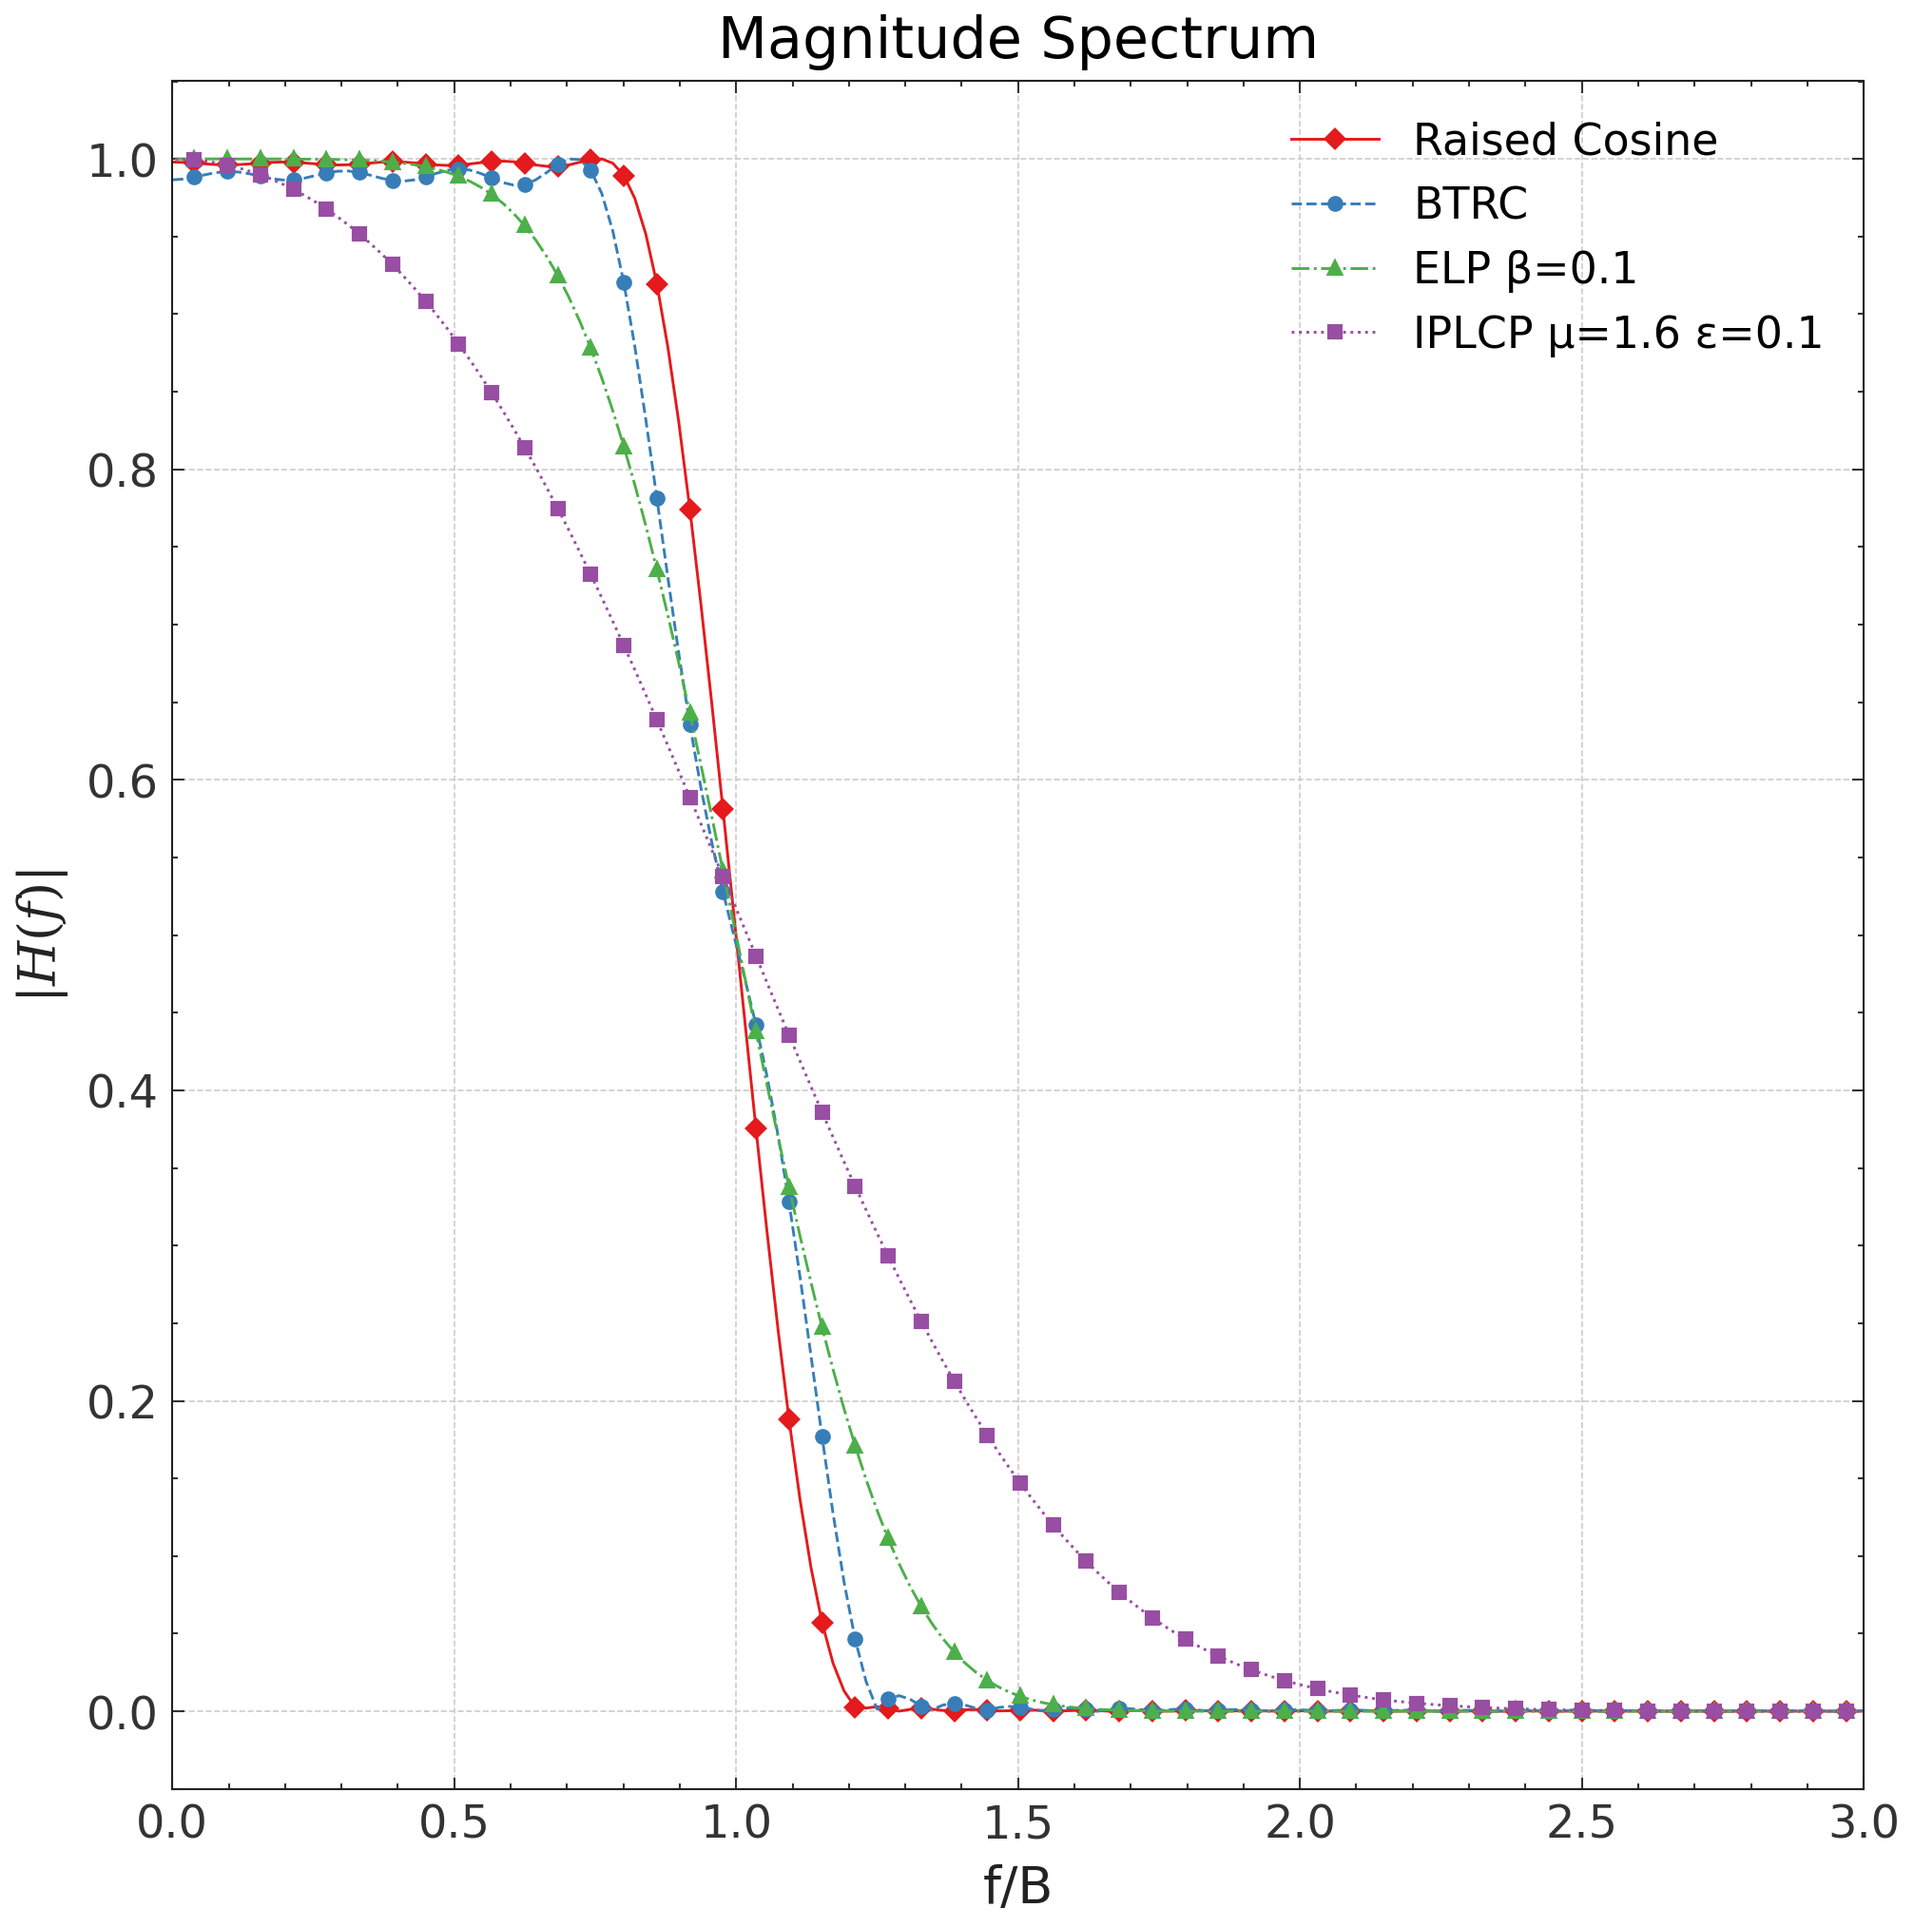
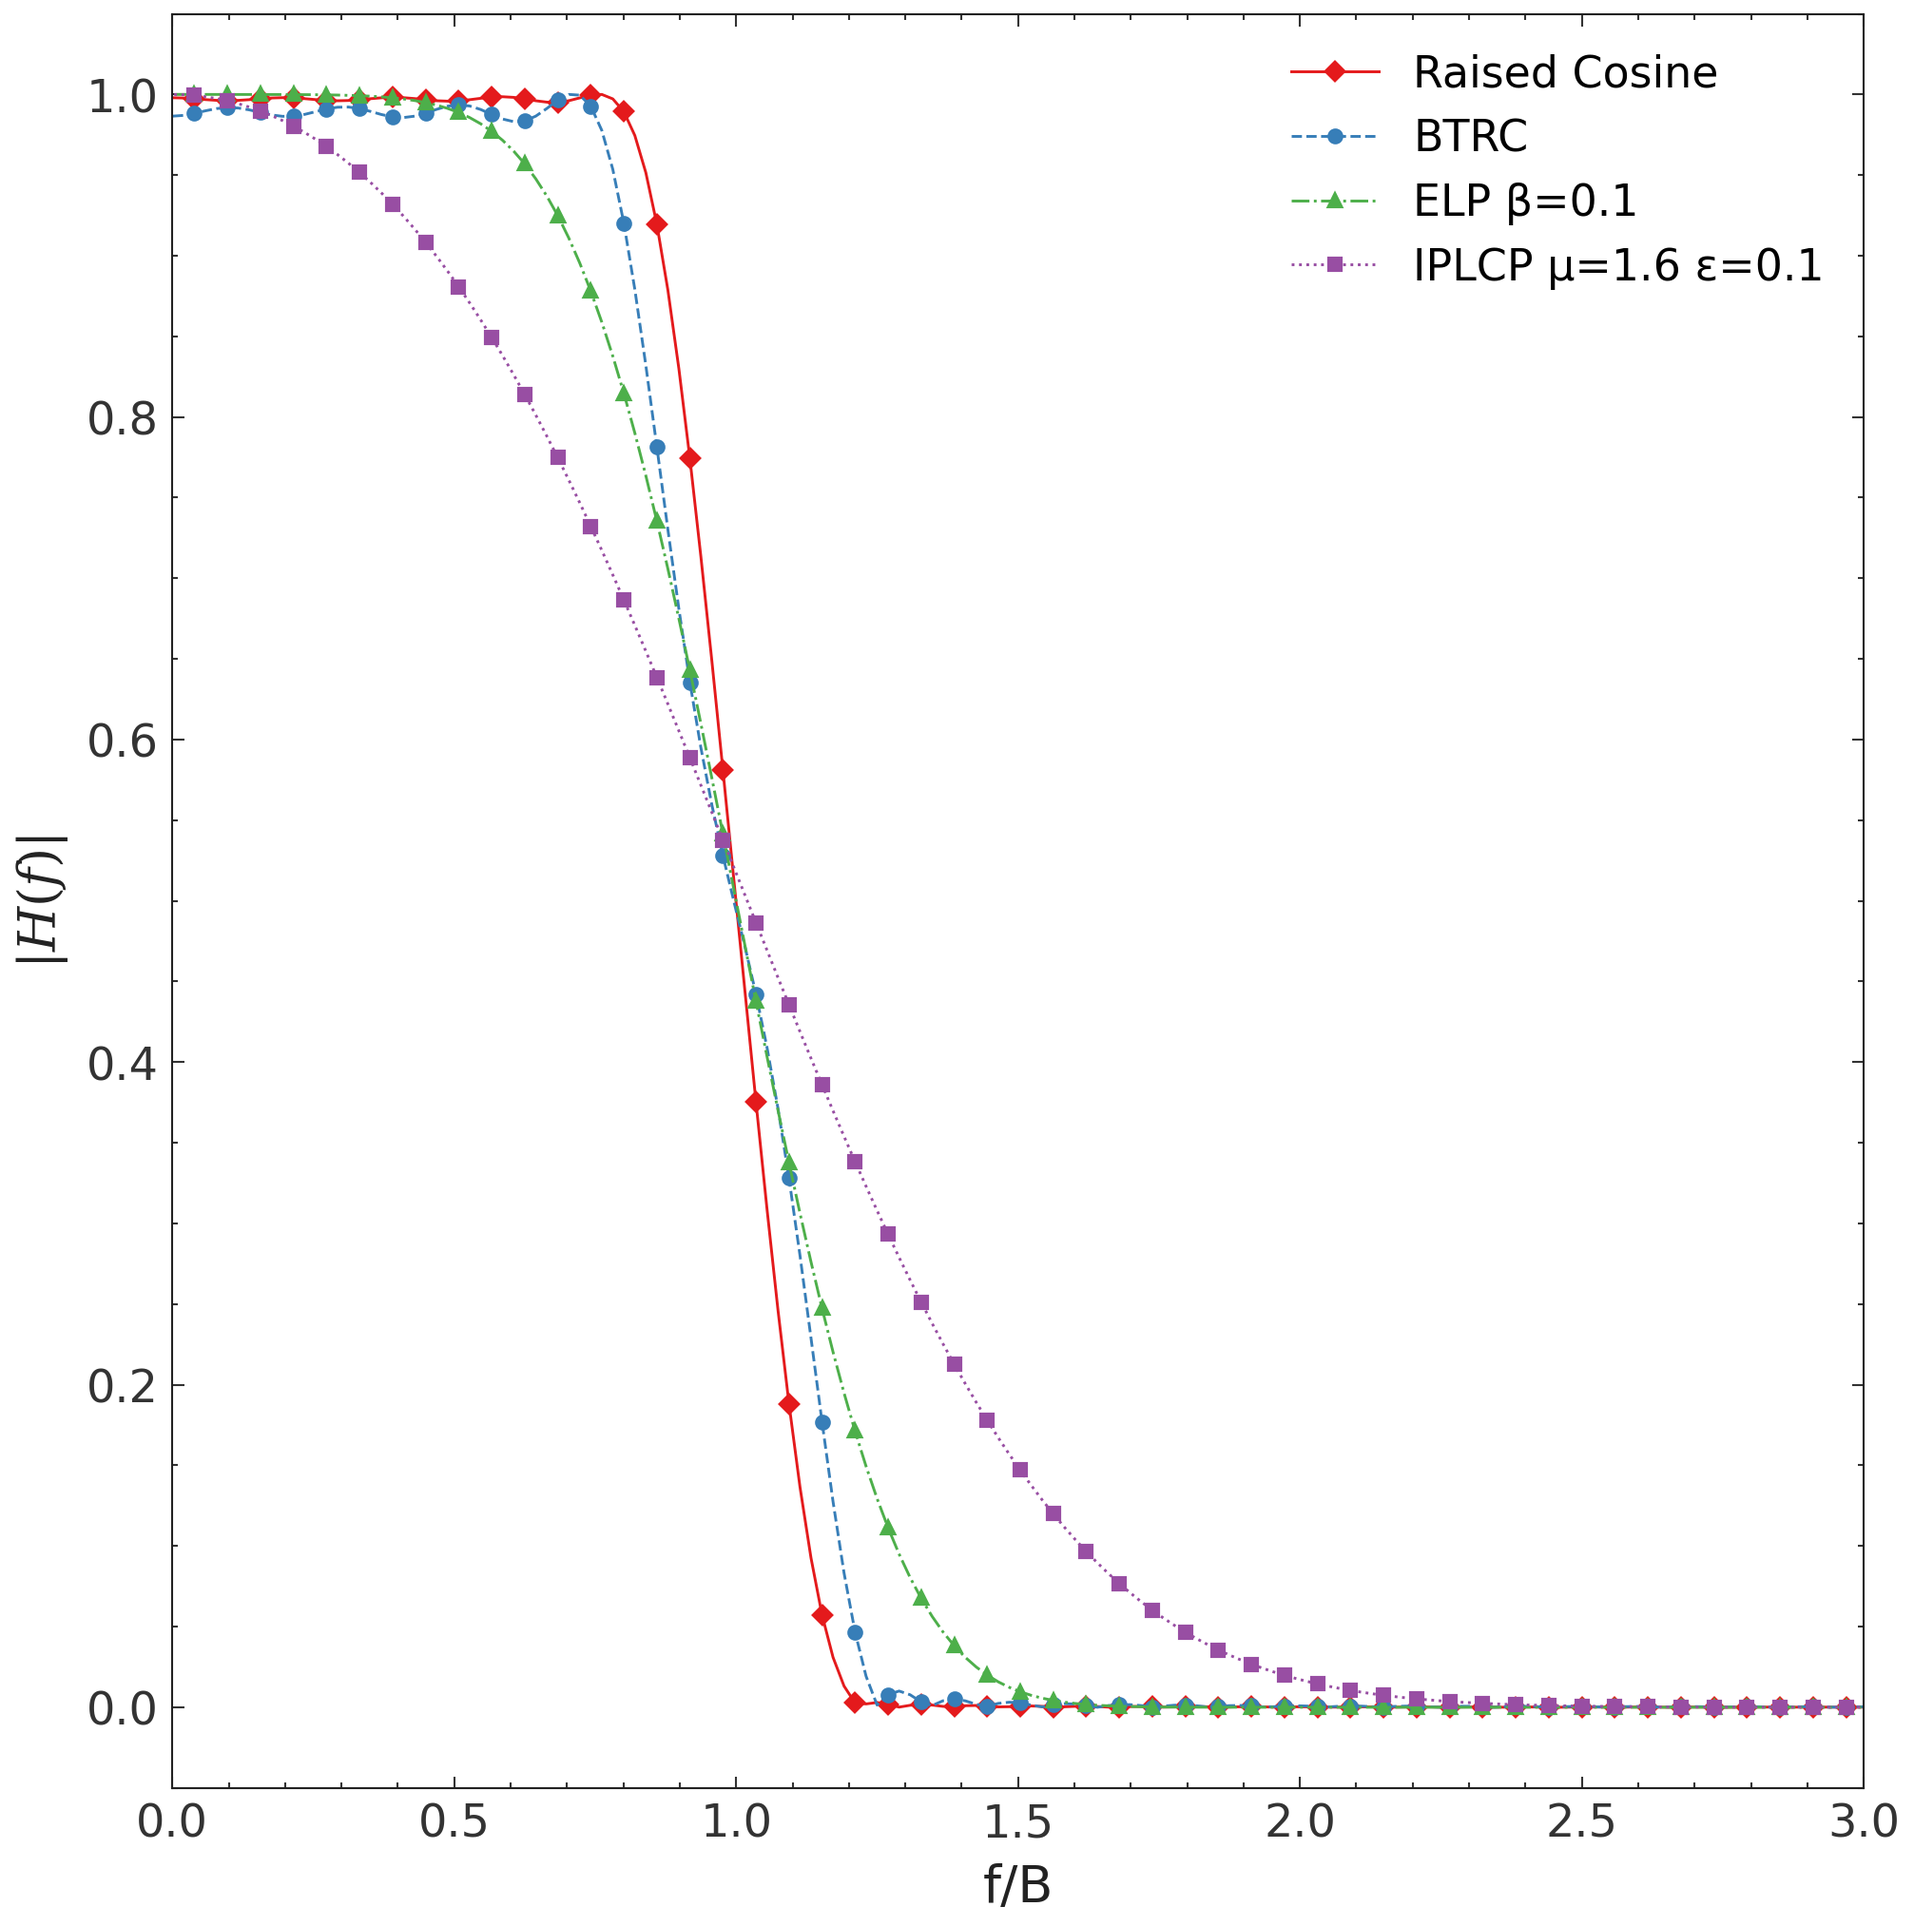
plot tweaks

diff --git a/src/main.py b/src/main.py
@@ -63,9 +63,7 @@ def main():
     os.makedirs(out_dir, exist_ok=True)
     logger.info("Output directory: %s", out_dir)
 
-    # Estilo global
-    logger.info("Aplicando estilo 'prism_rain'")
-    set_plot_style("prism_rain")
+    
 
     # Parámetros globales
     span_T = 10
@@ -79,6 +77,7 @@ def main():
     pulsos_dir = os.path.join(out_dir, "pulses_comparation")
     os.makedirs(pulsos_dir, exist_ok=True)
     for alpha in args.alphas:
+        set_plot_style("prism_rain")
         logger.info("Procesando pulsos para α=%.2f", alpha)
         pulse_data = generate_pulse_data(alpha, span_T, T, ovs, nfft, normalize, freq_axis)
         prefix = os.path.join(pulsos_dir, f"pulse_compare_{int(alpha*100):03d}")
@@ -92,6 +91,30 @@ def main():
             f_db_xlim=(-10, 10)
         )
         logger.info("Guardado comparativa de pulsos: %s*", prefix)
+
+        # ================================================
+        # Graficar cada pulso individualmente con t_lim = ±5T
+        indiv_dir = os.path.join(pulsos_dir, "individual")
+        os.makedirs(indiv_dir, exist_ok=True)
+        for label, t, h, f, mag, mag_db in pulse_data:
+            set_plot_style("matlab")
+            logger.info("Graficando pulso individual: %s, α=%.2f", label, alpha)
+            prefix_ind = os.path.join(
+                indiv_dir,
+                f"{label.replace(' ', '_').lower()}_{int(alpha*100):03d}"
+            )
+            plot_pulse_markers(
+                [(label, t, h, f, mag, mag_db)],
+                prefix=prefix_ind,
+                show=False,
+                savefig=True,
+                which="impulse",
+                t_xlim=(-4, 4)
+            )
+            logger.info("Guardado pulso individual: %s", prefix_ind)
+        # ================================================
+
+
 
     # Estilo para diagramas de ojo
     logger.info("Aplicando estilo 'prism_rain'")

diff --git a/src/plot_utils.py b/src/plot_utils.py
@@ -137,14 +137,14 @@ def plot_pulse_markers(
                 ax.plot(x[pos], y[pos], label=label, marker=marker,
                         linestyle=linestyle, markersize=markersize, linewidth=linewidth, markevery=3)
 
-        ax.set_title(cfg["title"])
+        #ax.set_title(cfg["title"])
         ax.set_xlabel(cfg["x_label"])
         ax.set_ylabel(cfg["y_label"])
         ax.set_xlim(cfg["x_lim"])
         if key == "db" and db_ylim:
             ax.set_ylim(db_ylim)
         ax.legend(loc=legend_loc)
-        ax.grid(True)
+        #ax.grid(True)
         fig.tight_layout()
 
         if savefig and prefix:
@@ -216,12 +216,12 @@ def plot_eye_traces(
             raise ValueError("parts must be 'real' or 'imag'")
         data = (eye_data.real if part == "real" else eye_data.imag)
         ax.plot(t_eye, data.T, color=color, lw=linewidth, alpha=alpha)
-        ax.set_title(f"Eye ({part}) — {pulse if isinstance(pulse, str) else pulse.__name__}")
+        ax.set_title(f"Eye Diagram — {pulse if isinstance(pulse, str) else pulse.__name__}")
         ax.set_xlabel("t / T")
         ax.set_ylabel("Amplitude")
         ax.set_xlim(-eye_T/2, eye_T/2)
         ax.set_ylim(y_lim)
-        ax.grid(True)
+        #ax.grid(True)
 
     fig.tight_layout()
     if savefig and prefix:

diff --git a/src/eye_utils.py b/src/eye_utils.py
@@ -81,8 +81,8 @@ def eye_diagram(
     eye = np.hstack([eye, extra[:, None]]) # Agrega un punto al final para asegurar t_eye tiene misma longitud que eye row
 
 
-    eye_max_abs = np.max(np.abs(eye))    # magnitud completa
-    # o, si sólo te interesa la parte real
+    eye_max_abs = np.max(np.abs(eye))    # magnitud completa, util para qpks o mayor
+
     real_peak = np.max(np.abs(eye.real))
 
     return eye, t_eye, eye_max_abs, real_peak

diff --git a/src/styles.py b/src/styles.py
@@ -4,7 +4,7 @@ common_rc = {
     "text.usetex": False,
     "lines.markersize": 6,
     "legend.fontsize": 12,
-    "axes.grid": True,
+    "axes.grid": False,
 }
 
 STYLE_CONFIGS = {

diff --git a/src/m_psk.py b/src/m_psk.py
@@ -51,4 +51,4 @@ plot_psk_constellation(8, '8PSK', axs[2], radius=1.0)
 
 plt.tight_layout()
 plt.savefig("figures/m_psk.png", dpi = 300)
-plt.show()
+#plt.show()
